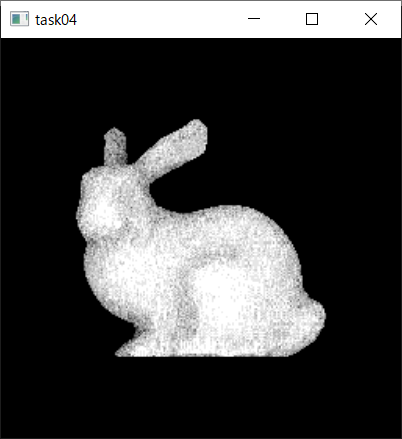
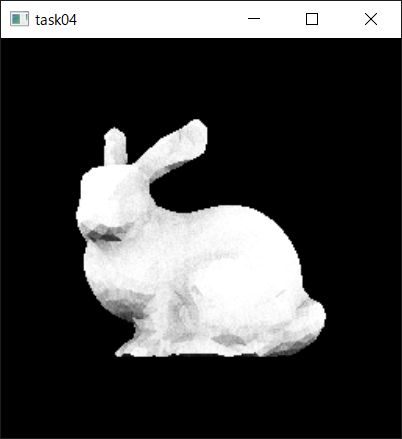
task04 finished

Changed region(s): [[0.1791, 0.2665, 0.8358, 0.8292], [0.9851, 0.0, 1.0, 0.0296], [0.0, 0.0, 0.0299, 0.0296]]

diff --git a/task04/main.cpp b/task04/main.cpp
@@ -50,9 +50,18 @@ double SamplingHemisphere(
   // write some codes below (5-10 lines)
     const auto theta = asin(sqrt(dfm2::MyERand48<double>(Xi)));  // you can sample uniform distribution [0,1] with this function
     const auto phi = 2*M_PI*dfm2::MyERand48<double>(Xi);
-    dir[0] = sin(theta)*cos(phi); // dir[0] -> [-1,+1]
-    dir[1] = sin(theta)*sin(phi);
-    dir[2] = cos(theta);
+    const auto ntheta = acos(nrm[2]);
+    const auto nphi = y/abs(y)*acos(nrm[0]/sqrt(nrm[0]*nrm[0]+nrm[1]*nrm[1]));
+    double x1 = sin(theta)*cos(phi); // dir[0] -> [-1,+1]
+    double y1 = sin(theta)*sin(phi);
+    double z1 = cos(theta);
+    double x2 = cos(ntheta)*x1+sin(ntheta)*z1;
+    double y2 = y1;
+    double z2 = -sin(ntheta)*x1+cos(ntheta)*z1;
+    dir[0]=cos(nphi)*x2-sin(nphi)*y2;
+    dir[1]=sin(nphi)*x2+cos(nphi)*y2;
+    dir[2]=z2;
+
     return 1;
 
   // below: naive implementation to "uniformly" sample hemisphere using "rejection sampling"
